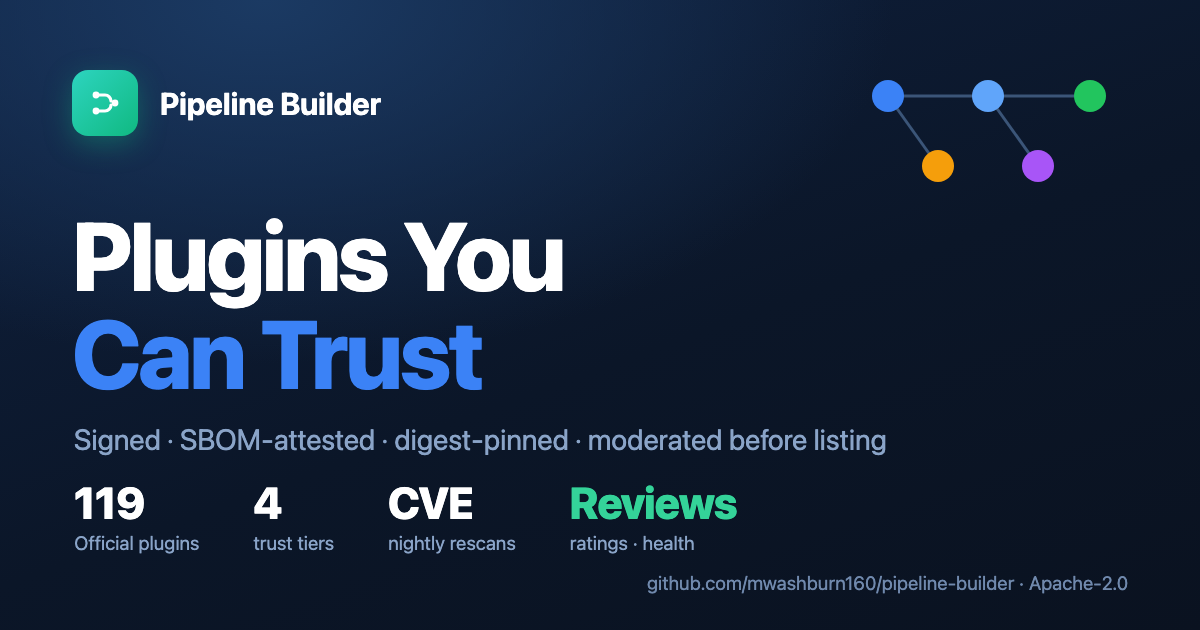
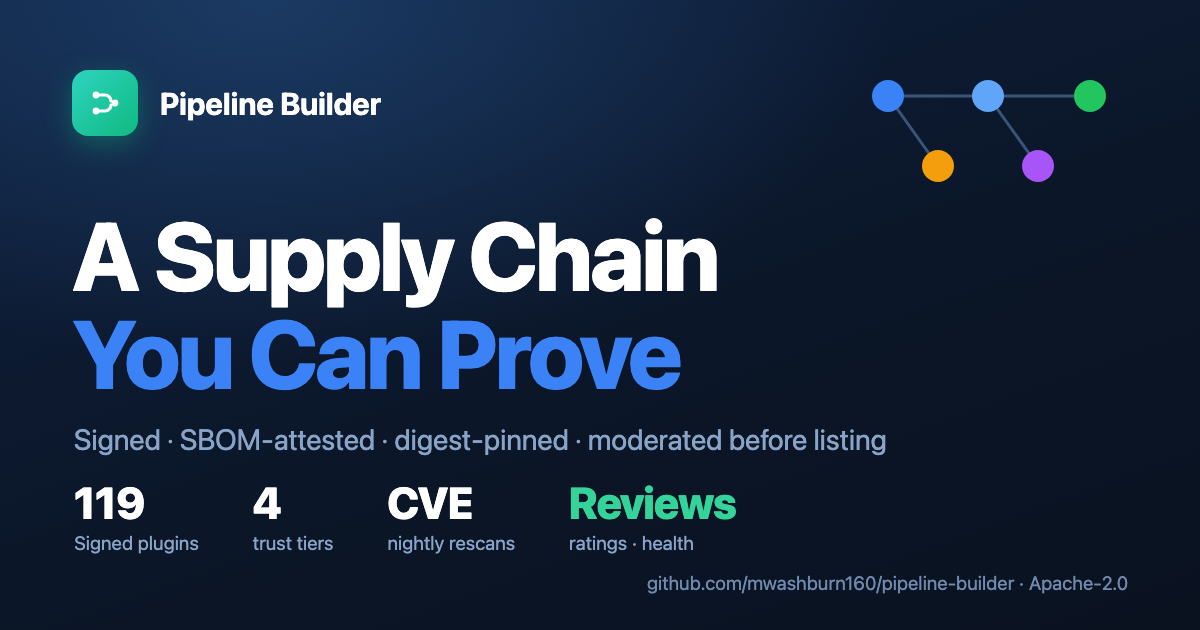
docs(site): reposition the social cards on DevSecOps, not CI/CD
The README, index.md, every doc page and the projen keywords were moved
off "self-service CI/CD" and onto software factories / DevSecOps — but
assets/og-image.png still read "Self-Service CI/CD for AWS". That card is
the site-wide default: it is what renders for a shared link to any docs
page, the landing page, the register page and the public plugin
directory, so the most-seen surface was still carrying the retired
positioning. The _config.yml comment above it even claimed it already
matched.

Cards are generated, so the copy changes land in gen-og-images.mjs and
the PNGs are re-rendered from it:

  og-image          Self-Service CI/CD for AWS -> Software Factories on AWS,
                    subtitled on DevSecOps environments; stats now lead with
                    the controls (signed plugins, policy operators, audit)
                    rather than the build count
  og-image-solution Governance, Built In -> Governance for Software Factories
  og-image-plugins  Plugins You Can Trust -> A Supply Chain You Can Prove
  og-image-solution-b  subtitle/stat moved to shift-left framing
                    ("enforced at create, not in review")

compliance, audit and solution-c were already on-message and re-rendered
byte-identical, which also confirms the committed PNGs were in sync with
the generator.

Every figure on the cards was re-verified against its source: 119 plugins
(deploy/plugins/*/plugin-spec.yaml), 18 rule operators (RULE_OPERATORS),
[…]

diff --git a/test/deploy-contracts/test/social-card-contract.test.ts b/test/deploy-contracts/test/social-card-contract.test.ts
@@ -1,0 +1,147 @@
+// Copyright 2026 Pipeline Builder Contributors
+// SPDX-License-Identifier: Apache-2.0
+
+/**
+ * The social cards must carry the CURRENT positioning, and every page must
+ * point at a card that exists.
+ *
+ * Nothing in the build reads `assets/*.png`, `_config.yml` or a page's `image:`
+ * front matter, so a stale card survives a green `nx run-many -t build --all`
+ * indefinitely. One did: the README, index.md, every doc and the projen
+ * keywords were repositioned from "Self-Service CI/CD for AWS" to software
+ * factories, while `assets/og-image.png` — the card rendered for EVERY shared
+ * link to the docs site, the landing page, the register page and the public
+ * plugin directory — kept the retired headline. The most-seen surface was the
+ * last one to change, and the `_config.yml` comment above it even asserted it
+ * already matched.
+ *
+ * The cards are produced by `scripts/gen-og-images.mjs`, which needs headless
+ * Chrome, so this cannot re-render them to compare pixels. It checks the things
+ * that actually went wrong instead: the headline text in the generator (the
+ * source the PNGs come from), that every referenced card exists at the right
+ * size, and that the retired framing is gone from the surfaces that quote it.
+ */
+
+import { readFileSync, readdirSync, existsSync, statSync } from 'node:fs';
+import { join } from 'node:path';
+import { describe, it, expect } from '@jest/globals';
+import { REPO_ROOT } from '../src/index.js';
+
+const GENERATOR = 'scripts/gen-og-images.mjs';
+
+function read(rel: string): string {
+  return readFileSync(join(REPO_ROOT, rel), 'utf-8');
+}
+
+/** Card name -> its two headline lines, parsed out of the generator's CARDS map. */
+function cards(): Map<string, string[]> {
+  const src = read(GENERATOR);
+  const out = new Map<string, string[]>();
+  const re = /'(og-image[\w-]*)':\s*\{\s*title:\s*\[([^\]]+)\]/g;
+  for (const m of src.matchAll(re)) {
+    out.set(m[1], [...m[2].matchAll(/'([^']*)'/g)].map((t) => t[1]));
+  }
+  return out;
+}
+
+/** The `image:` front-matter value of every Jekyll page that sets one. */
+function pageImages(): Array<{ page: string; image: string }> {
+  const out: Array<{ page: string; image: string }> = [];
+  for (const dir of ['', 'docs']) {
+    const abs = dir ? join(REPO_ROOT, dir) : REPO_ROOT;
+    for (const f of readdirSync(abs)) {
+      if (!f.endsWith('.md')) continue;
+      const rel = dir ? `${dir}/${f}` : f;
+      const m = /^image:\s*(\S+)\s*$/m.exec(read(rel));
+      if (m) out.push({ page: rel, image: m[1] });
+    }
+  }
+  return out;
+}
+
+/** Width and height from a PNG's IHDR, which is always the first chunk. */
+function pngSize(rel: string): { w: number; h: number } {
+  const b = readFileSync(join(REPO_ROOT, rel));
+  return { w: b.readUInt32BE(16), h: b.readUInt32BE(20) };
+}
+
+describe('social cards', () => {
+  const CARDS = cards();
+
+  it('parses the generator (guards a vacuous pass)', () => {
+    // Every assertion below is driven off this map; a parse failure would make
+    // all of them pass by checking nothing.
+    expect(CARDS.size).toBeGreaterThanOrEqual(7);
+    expect(CARDS.get('og-image')).toHaveLength(2);
+  });
+
+  it('headlines the default card with the site title', () => {
+    // This is the pairing that broke. `_config.yml`'s `title` is what the page
+    // says; the default card is what a shared link SHOWS. They have to agree,
+    // because the card is the one most people see first.
+    const title = /^title:\s*(.+)$/m.exec(read('_config.yml'))![1].trim();
+    expect(CARDS.get('og-image')!.join(' ')).toBe(title);
+  });
+
+  it('keeps the retired CI/CD positioning out of the cards and their metadata', () => {
+    // The surfaces that quote the headline: the generator the PNGs come from,
+    // and the pages whose <meta> sits beside the card in a link preview.
+    const retired = /Self-Service CI\/CD|Production-Ready CI\/CD|self-service[^.\n]{0,30}CI\/CD|AWS CI\/CD/i;
+    const surfaces = [
+      GENERATOR, '_config.yml', 'README.md', 'index.md',
+      'frontend/pages/index.tsx',
+      'frontend/pages/auth/register.tsx',
+      'frontend/pages/invite/accept.tsx',
+    ];
+    const bad: string[] = [];
+    for (const s of surfaces) {
+      read(s).split('\n').forEach((line, i) => {
+        if (retired.test(line)) bad.push(`${s}:${i + 1} ${line.trim().slice(0, 80)}`);
+      });
+    }
+    expect(bad).toEqual([]);
+  });
+
+  it('commits a PNG for every card the generator defines', () => {
+    const missing = [...CARDS.keys()].filter((n) => !existsSync(join(REPO_ROOT, 'assets', `${n}.png`)));
+    expect(missing).toEqual([]);
+  });
+
+  it('points every page at a card that exists', () => {
+    const images = pageImages();
+    expect(images.length).toBeGreaterThanOrEqual(10); // guards a vacuous pass
+    const broken = images
+      .filter((p) => !existsSync(join(REPO_ROOT, p.image.replace(/^\//, ''))))
+      .map((p) => `${p.page} -> ${p.image}`);
+    expect(broken).toEqual([]);
+  });
+
+  it('keeps every card at the 1200x630 Open Graph size', () => {
+    // Off-size cards are cropped by the scrapers rather than rejected, so this
+    // degrades silently too.
+    const wrong = [...CARDS.keys()]
+      .map((n) => ({ n, ...pngSize(`assets/${n}.png`) }))
+      .filter((c) => c.w !== 1200 || c.h !== 630)
+      .map((c) => `${c.n}: ${c.w}x${c.h}`);
+    expect(wrong).toEqual([]);
+  });
+
+  it('keeps the frontend copies in sync with assets/', () => {
+    // gen-og-images.mjs copies these two into frontend/public; a card
+    // regenerated without re-running the copy leaves the dashboard on the old
+    // art while the docs site moves on.
+    const copies = [...read(GENERATOR).matchAll(/FRONTEND_COPIES = \[([^\]]+)\]/g)]
+      .flatMap((m) => [...m[1].matchAll(/'([^']+)'/g)].map((t) => t[1]));
+    expect(copies.length).toBeGreaterThan(0);
+    const drifted: string[] = [];
+    for (const n of copies) {
+      const a = join(REPO_ROOT, 'assets', `${n}.png`);
+      const b = join(REPO_ROOT, 'frontend', 'public', `${n}.png`);
+      if (!existsSync(b)) { drifted.push(`${n}: missing in frontend/public`); continue; }
+      if (statSync(a).size !== statSync(b).size || !readFileSync(a).equals(readFileSync(b))) {
+        drifted.push(`${n}: frontend/public copy differs from assets/`);
+      }
+    }
+    expect(drifted).toEqual([]);
+  });
+});

diff --git a/frontend/pages/index.tsx b/frontend/pages/index.tsx
@@ -40,9 +40,9 @@ export default function Home({ siteUrl = DEFAULT_SITE_URL }: Partial<WithSiteUrl
   return (
     <>
       <Head>
-        <title>Pipeline Builder — Production-Ready CI/CD from TypeScript, CLI, or AI</title>
-        <meta name="description" content="Turn plugin definitions and pipeline configs into fully deployed AWS CodePipeline infrastructure — inside your AWS account with zero lock-in. 119 plugins, compliance engine, multi-tenant orgs." />
-        <meta property="og:title" content="Pipeline Builder — Production-Ready CI/CD from TypeScript, CLI, or AI" />
+        <title>Pipeline Builder — Software Factories on AWS</title>
+        <meta name="description" content="Stand up a complete DevSecOps environment on AWS — secure delivery pipelines, a signed and SBOM-attested supply chain, policy-as-code compliance and a tamper-evident audit trail, inside your own AWS account with no lock-in." />
+        <meta property="og:title" content="Pipeline Builder — Software Factories on AWS" />
         <meta property="og:description" content="A software factory on AWS: secure delivery pipelines with AI generation, 119 signed plugins, per-org compliance, and execution analytics. Deploys as native AWS CodePipeline in your account." />
         <meta property="og:type" content="website" />
         <meta property="og:image" content={ogImage} />
@@ -53,7 +53,7 @@ export default function Home({ siteUrl = DEFAULT_SITE_URL }: Partial<WithSiteUrl
         <meta property="og:url" content={siteUrl} />
         <meta name="twitter:card" content="summary_large_image" />
         <meta name="twitter:title" content="Pipeline Builder" />
-        <meta name="twitter:description" content="Production-ready AWS CodePipelines from TypeScript, CLI, or a single AI prompt." />
+        <meta name="twitter:description" content="Complete DevSecOps environments on AWS — secure delivery, a proven supply chain, and governance built in." />
         <meta name="twitter:image" content={ogImage} />
       </Head>
       {showLanding ? <LandingPage /> : <LoadingPage message="Loading..." />}

diff --git a/frontend/pages/invite/accept.tsx b/frontend/pages/invite/accept.tsx
@@ -183,13 +183,13 @@ export default function AcceptInvitePage({ siteUrl = DEFAULT_SITE_URL }: Partial
         <title>Accept invitation - Pipeline Builder</title>
         <meta name="description" content="You've been invited to a Pipeline Builder organization — a secure software factory for AWS with per-org roles, SSO, and a tamper-evident audit trail." />
         <meta property="og:title" content="Join your team on Pipeline Builder" />
-        <meta property="og:description" content="Accept your invitation — governed, self-service AWS CI/CD with fine-grained RBAC, SSO, and end-to-end audit." />
+        <meta property="og:description" content="Accept your invitation — a governed software factory on AWS with fine-grained RBAC, SSO, and end-to-end audit." />
         <meta property="og:type" content="website" />
         <meta property="og:image" content={OG_SOLUTION} />
         <meta property="og:image:width" content="1200" />
         <meta property="og:image:height" content="630" />
         <meta property="og:image:type" content="image/png" />
-        <meta property="og:image:alt" content="Pipeline Builder — Governance, Built In" />
+        <meta property="og:image:alt" content="Pipeline Builder — Governance for Software Factories" />
         <meta name="twitter:card" content="summary_large_image" />
         <meta name="twitter:image" content={OG_SOLUTION} />
       </Head>

diff --git a/frontend/pages/auth/register.tsx b/frontend/pages/auth/register.tsx
@@ -167,7 +167,7 @@ export default function RegisterPage({ siteUrl = DEFAULT_SITE_URL }: Partial<Wit
     <>
       <Head>
         <title>Create account - Pipeline Builder</title>
-        <meta name="description" content="Create your Pipeline Builder account — self-service, production-ready AWS CI/CD from TypeScript, CLI, CDK, or a single AI prompt. Native AWS CodePipeline, no lock-in." />
+        <meta name="description" content="Create your Pipeline Builder account — stand up a secure software factory on AWS with signed plugins, policy-as-code compliance and an audit trail from day one. Native AWS CodePipeline, no lock-in." />
         <meta property="og:title" content="Create your Pipeline Builder account" />
         <meta property="og:description" content="Software factories on AWS — 119 signed plugins, AI generation, per-org compliance. Deploys as native AWS CodePipeline in your account." />
         <meta property="og:type" content="website" />

diff --git a/README.md b/README.md
@@ -1,6 +1,6 @@
 <p align="center">
   <strong>Pipeline Builder</strong><br/>
-  <em>Self-service AWS CodePipelines with golden paths for developers and guardrails for platform teams.</em>
+  <em>Stand up and run secure software factories on AWS — complete DevSecOps environments, in minutes.</em>
 </p>
 
 <p align="center">
